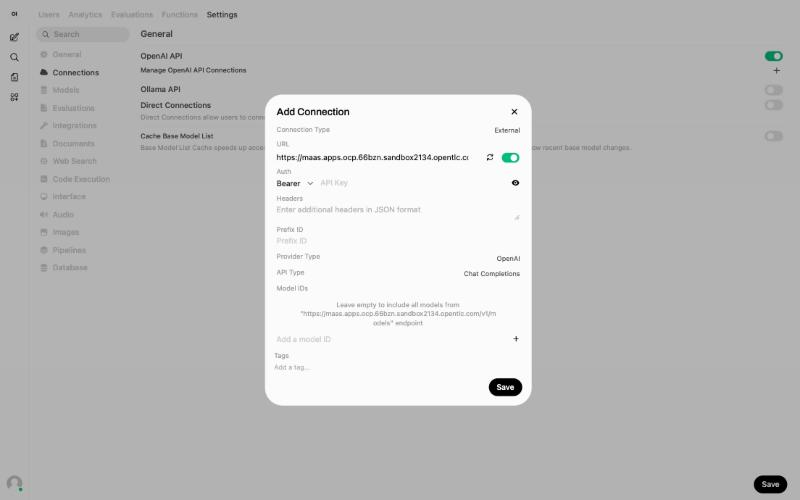
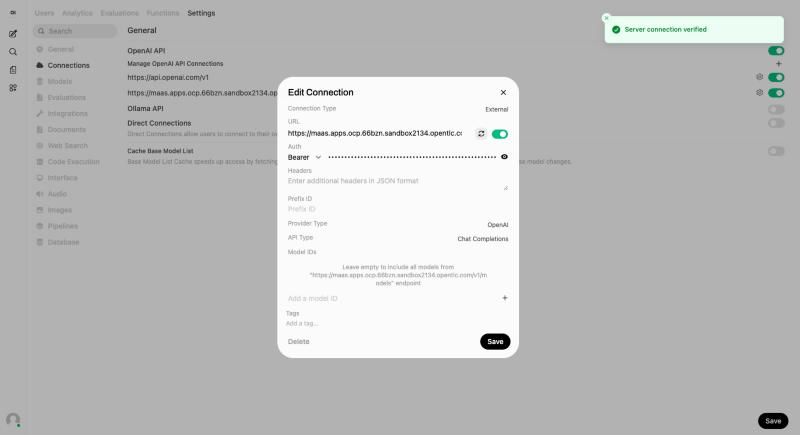
Apply user1 dry-run fixes and add Open WebUI dashboard tiles
- Part 5/6: MaaS row (use case LLM) appears after the subscription exists;
  MaaS governance location; key typeahead, expiration and copy button;
  Playground re-creation flow
- Part 7: Web Terminal start tips, NAMESPACE from oc whoami, Open WebUI tile
  in Applications > Enabled, connection "+" location, disable the default
  api.openai.com connection, "Network Problem" means a bad key, rename and
  New Chat details, no-login caution
- Appendix A: open-webui-tiles.sh for per-user dashboard tiles, cleanup order
- Retake Part 7 screenshots as user1

diff --git a/RHOAI-MODEL-DEPLOYMENT-WORKSHOP.md b/RHOAI-MODEL-DEPLOYMENT-WORKSHOP.md
@@ -424,12 +424,14 @@ The model pods are **not restarted**. Only the route moves from the inference ga
 
 ## Step 5.2: What Changed?
 
-Go back to **Gen AI studio > AI asset endpoints**. Your deployment now shows **two rows**:
+Go back to **Gen AI studio > AI asset endpoints**. For now you still see **one row**, `gemma-4-e4b-it` with use case `chat`. A MaaS model only becomes usable once a subscription includes it, so its row appears after you create your subscription in Step 6.1. You'll then see **two rows**, both named `gemma-4-e4b-it`:
 
-| Row | Badge | What It Is |
-|-----|-------|-----------|
-| `gemma-4-e4b-it` (use case `chat`) | — | The original AI asset entry. It still points at the **old** URL, which now returns **404** because the route moved |
-| `publishers/userN/models/gemma-4-e4b-it` | **Model as a Service** | The MaaS entry. This is the one to use from now on |
+| Row | Use Case | What It Is |
+|-----|----------|-----------|
+| `gemma-4-e4b-it` | `chat` | The original AI asset entry. It still points at the **old** URL, which now returns **404** because the route moved |
+| `gemma-4-e4b-it`, with `publishers/userN/models/gemma-4-e4b-it` underneath | `LLM` | The MaaS entry. This is the one to use from now on |
+
+![AI asset endpoints after Step 6.1](images/maas/23c-asset-endpoints-maas.jpg)
 
 Nothing was deleted. The dashboard simply lists the model once as a project AI asset and once as a MaaS model. The MaaS row has its own **Endpoints** dialog with the shared MaaS URL and a subscription picker.
 
@@ -456,7 +458,7 @@ In this workshop, your instructor has already created one shared **premium subsc
 
 ## Step 6.1: Create Your Basic Subscription
 
-1. Go to **Settings > MaaS governance**
+1. Go to **Settings > MaaS governance** (the last item under **Settings** in the left menu)
 2. Open the **Subscriptions** tab and click **"Create subscription"**
 
 ![MaaS governance](images/maas/20-maas-governance-empty.jpg)
@@ -493,7 +495,7 @@ Your subscription appears in the list with status **Ready**. The instructor's `p
 ## Step 6.2: Look at the MaaS Endpoint
 
 1. Go to **Gen AI studio > AI asset endpoints** (project `userN`)
-2. In the **Model as a Service** row, click **View** in the **Endpoints** column
+2. In the row with use case **LLM** (`publishers/userN/models/gemma-4-e4b-it` underneath the name), click **View** in the **Endpoints** column
 
 ![MaaS endpoint](images/maas/24-maas-endpoint.jpg)
 
@@ -517,15 +519,17 @@ Click **"Close"**. For Open WebUI, you'll create a proper key.
    |-------|---------------|
    | **Name** | `openwebui-userN` |
    | **Description** | `Key for Open WebUI` (optional) |
-   | **Subscription** | `basic subscription userN` |
-   | **Expiration** | a date after the workshop, for example tomorrow |
+   | **Subscription** | start typing `basic`, then pick **your own** `basic subscription userN` |
+   | **Expiration** | keep the default (1 day). It lasts past the end of the workshop |
 
    The **Models** list confirms which models the key can use, and their token limits.
 
 ![Create API key](images/maas/26-create-api-key.jpg)
 
 4. Click **"Create API key"**
-5. **Copy the key now.** It starts with `sk-oai-` and is **shown only once**. Paste it somewhere safe, such as a local text file; you'll need it in Part 7
+5. **Copy the key now.** It starts with `sk-oai-` and is **shown only once**. Click the **copy icon** next to the key, then paste it somewhere safe, such as a local text file; you'll need it in Part 7. Then click **"Close"**
+
+![API key created](images/maas/26b-api-key-created.jpg)
 
 > Lost the key? You can't display it again. Delete it on the **API keys** page and create a new one.
 
@@ -534,13 +538,18 @@ Click **"Close"**. For Open WebUI, you'll create a proper key.
 Reconnect the Playground through MaaS, the same way other applications will reach the model:
 
 1. Go to **Gen AI studio > AI asset endpoints** (project `userN`)
-2. In the **Model as a Service** row (`publishers/userN/models/gemma-4-e4b-it`), click **"Add to playground"**
+2. In the row with use case **LLM** (`publishers/userN/models/gemma-4-e4b-it` underneath the name), click **"Add to playground"**
 3. In **Configure playground**, both rows are named `gemma-4-e4b-it`. Keep the row with use case **LLM** (the MaaS one) checked and **uncheck** the row with use case **chat** (the old endpoint)
-4. Click **"Configure"**. The Playground restarts with the new model, which takes about a minute
-5. Open **Gen AI studio > Playground**, click **Settings**, and on the **Model** tab:
+
+![Configure playground with the MaaS model](images/maas/26c-configure-playground-maas.jpg)
+
+4. Click **"Configure"**. The Playground is re-created with the new model, which takes about a minute. When you see **"Playground created"**, click **"Go to playground"**
+5. Click **Settings**. On the **Model** tab, the fields are already filled in. Check them:
    - **Model:** the `maas-vllm-inference-1/publishers/userN/models/…` entry
    - **Subscription:** `basic subscription userN`
 6. Ask a question, for example `In one sentence, what is Models-as-a-Service?`
+
+> The re-created Playground starts empty: the document you uploaded for RAG in Step 4.5 is gone. Upload it again if you want to repeat the RAG test through MaaS.
 
 ![Playground through MaaS](images/maas/27-playground-maas.jpg)
 
@@ -584,7 +593,11 @@ You (browser) ──▶ Open WebUI ──(sk-oai- key)──▶ MaaS gateway ─
 
 ## Step 7.1: Open the Web Terminal
 
-Switch to the **OpenShift Console** (grid icon > **OpenShift Console**). Click the **`>_`** icon in the top-right masthead to open the Web Terminal. It comes with `oc`, `git` and `sed`, so you don't need any local tools.
+Switch to the **OpenShift Console** (grid icon > **OpenShift Console**). If it asks you to log in, use the same `userN` as the dashboard. If a **Welcome** dialog offers a tour, click **Skip tour**.
+
+Click the **`>_`** icon in the top-right masthead to open the Web Terminal. The first time, it shows **Initialize terminal**: click **Start** (if it asks for a project, pick `userN`). The terminal takes about 15 seconds to start. It comes with `oc`, `git` and `sed`, so you don't need any local tools.
+
+> **New to the terminal?** You only need to copy and paste. Hover over each command block in this guide and click its copy icon. Click inside the terminal and paste with **Ctrl+Shift+V** (Windows/Linux) or **Cmd+V** (Mac), or right-click > **Paste**. Then press **Enter**. Run one block at a time and wait for the prompt (`$`) to come back before the next one.
 
 ## Step 7.2: Clone the Workshop Repository
 
@@ -598,9 +611,17 @@ cd Red-Hat-AI-Workshop
 
 ## Step 7.3: Set Your Namespace
 
+Your project has the same name as your user, so the terminal can fill it in for you. The next commands use it to deploy into your project.
+
 ```bash
-export NAMESPACE=userN
+export NAMESPACE=$(oc whoami)
 ```
+
+```bash
+echo $NAMESPACE
+```
+
+It should print your own user, for example `user1`. If it doesn't, type it yourself, for example `export NAMESPACE=user1`.
 
 ## Step 7.4: Deploy Open WebUI
 
@@ -621,15 +642,25 @@ Wait for it to start:
 oc rollout status deployment/open-webui -n $NAMESPACE --timeout=180s
 ```
 
+It takes about a minute. You should see five lines ending in `created`, then `successfully rolled out`:
+
+![Deploy Open WebUI in the Web Terminal](images/maas/29-terminal-deploy-owui.jpg)
+
 ## Step 7.5: Open Open WebUI
 
-Get its URL:
+In the OpenShift AI dashboard, go to **Applications > Enabled**. Find the **Open WebUI** tile whose description starts with **your** `userN:` (everyone's tiles are listed) and click **Open application**:
+
+![Open WebUI tile in Applications > Enabled](images/maas/34-enabled-open-webui-tile.jpg)
+
+Or get the URL in the terminal:
 
 ```bash
 echo "https://$(oc get route open-webui -n $NAMESPACE -o jsonpath='{.spec.host}')"
 ```
 
 Open the URL in a new browser tab. Authentication is disabled for the workshop, so you go straight to the chat page. If a **What's New** dialog appears, click **"Okay, Let's Go!"**.
+
+> **Open only your own Open WebUI.** Without a login, anyone who opens your URL can chat with your API key, and everything you configure there is shared. Don't upload anything confidential.
 
 ## Step 7.6: Add the MaaS Connection with Your API Key
 
@@ -645,19 +676,21 @@ Now, in Open WebUI:
 
 1. Click the **profile icon** (bottom-left corner), then **"Admin Panel"**
 2. Click **"Settings"**, then **"Connections"**
-3. Next to **OpenAI API**, click **"+"** (Add Connection)
+3. Under **OpenAI API**, on the **"Manage OpenAI API Connections"** row, click **"+"** (Add Connection) at the far right
 4. Fill in:
 
    | Field | Value |
    |-------|-------|
    | **URL** | `https://maas.apps.<cluster-domain>/v1` |
-   | **Auth** | `Bearer`, then paste your **`sk-oai-` API key** from Step 6.3 |
+   | **Auth** | `Bearer`, then paste your **`sk-oai-` API key** from Step 6.3 into the field next to it |
    | **Model IDs** | leave empty (Open WebUI lists every model your key can use) |
 
 ![Add Connection](images/maas/30-owui-add-connection.jpg)
 
 5. Click the **Verify** icon (circular arrows) next to the URL. You should see **"Server connection verified"**
+   - **"OpenAI: Network Problem"** usually means the key is wrong or empty, not the network. Copy the key again (click the eye icon to check it starts with `sk-oai-`), paste it, and verify again
 6. Click **"Save"** in the dialog, then **"Save"** at the bottom right of the page
+7. Open WebUI comes with a connection to `https://api.openai.com/v1` that has no key. Turn its toggle **off** and click **"Save"** again, so only your MaaS connection is used
 
 That's all it takes to plug an application into MaaS: a base URL and an API key.
 
@@ -667,8 +700,8 @@ Open WebUI shows the model by its MaaS ID, `publishers/userN/models/gemma-4-e4b-
 
 1. In **Admin Panel > Settings**, click **"Models"**
 2. Click the **pencil icon** next to `publishers/userN/models/gemma-4-e4b-it`
-3. Change the **name** to `redhataigemma4`
-4. Click **"Save & Update"**
+3. Click the large model name at the top and replace it with `redhataigemma4`
+4. Scroll to the bottom of the page and click **"Save & Update"**. You should see **"Model updated successfully"**
 
 ![Rename the model](images/maas/32-owui-rename-model.jpg)
 
@@ -676,8 +709,8 @@ This changes only what Open WebUI displays. Requests still go to MaaS with the f
 
 ## Step 7.8: Chat
 
-1. Click **"New Chat"** (top left)
-2. Select **`redhataigemma4`** in the model dropdown
+1. Click **"New Chat"** (the pencil-and-paper icon at the top of the left sidebar)
+2. Check that **`redhataigemma4`** is selected at the top left. It's your only model, so it's usually already selected
 3. Try:
 
 ```
@@ -789,6 +822,7 @@ Turn **off** the OpenShift-MCP-Server on the **MCP** tab. With tools enabled, th
 ## MaaS returns 401 Unauthorized
 
 - The API key is missing, mistyped, expired or deleted. Create a new one in **Gen AI studio > API keys**
+- In Open WebUI, a 401 shows up as **"OpenAI: Network Problem"** when you click **Verify**. Paste the key again
 - The header must be `Authorization: Bearer sk-oai-…`
 
 ## MaaS returns 429, or Open WebUI shows an empty answer
@@ -831,7 +865,7 @@ Raise your hand! The instructors are here to help.
 
 ```bash
 # Set your namespace
-export NAMESPACE=userN
+export NAMESPACE=$(oc whoami)
 
 # Check your login and project
 oc whoami
@@ -964,6 +998,18 @@ oc get pods -n workshop-mcp
 
 If the ConfigMap `gen-ai-aa-mcp-servers` in `redhat-ods-applications` already has other entries, add the `OpenShift-MCP-Server` key instead of replacing the ConfigMap.
 
+## 6a. Open WebUI tiles in Applications > Enabled
+
+One **Open WebUI** tile per attendee, so they can open their Open WebUI from the dashboard in Step 7.5. Each tile links to `https://open-webui-userN.<apps domain>`. Its description starts with `userN:`, because every tile is visible to every user. Pass the number of attendees:
+
+```bash
+bash manifests/instructor/open-webui-tiles.sh 20
+```
+
+The dashboard shows the tiles within about 1 to 2 minutes. A tile's link works once that attendee has finished Step 7.4. Remove them after the workshop with `bash manifests/instructor/open-webui-tiles.sh 20 delete`.
+
+This follows Red Hat's [Adding an application to the dashboard](https://docs.redhat.com/en/documentation/red_hat_openshift_ai_self-managed/3.4/html/managing_openshift_ai/managing-applications-that-show-in-the-dashboard). It uses an `OdhApplication` with `spec.enable.validationConfigMap`, and the script creates that ConfigMap with `validation_result: "true"`, so attendees don't need to click **Enable** on the Explore page. The script sets `spec.endpoint` instead of `route`/`routeNamespace`: in RHOAI 3.5.3 the dashboard looks up `route` in its own namespace first. The default `spec.dashboardConfig.enablement: true` is required.
+
 ## 7. "premium subscription" placeholder
 
 One shared, intentionally empty subscription. It shows as **Failed** and can't be used for keys. That is expected; it only shows attendees that more tiers can exist:
@@ -993,7 +1039,17 @@ As a test user, walk through Parts 3 to 7 once:
 - Publish as MaaS, create a subscription and a key, and re-add the Playground through MaaS
 - Deploy Open WebUI, connect it with the key, chat and RAG
 
-Then delete the test user's project, subscription and API key.
+Then clean up the test user, in this order:
+
+1. **API keys:** signed in as the test user, delete them on **Gen AI studio > API keys** (kebab menu ⋮). Do this first: a key that is left behind becomes usable again if an attendee later creates a subscription with the same name
+2. **Subscription and its authorization policy:**
+
+   ```bash
+   oc delete maassubscription basic-subscription-user1 -n models-as-a-service
+   oc delete maasauthpolicy basic-subscription-user1-policy -n models-as-a-service --ignore-not-found
+   ```
+
+3. **Project** (model, Playground and Open WebUI): `oc delete project user1`
 
 ## Known limitations (RHOAI 3.5.3)
 

diff --git a/README.md b/README.md
@@ -21,7 +21,7 @@ See [RHOAI-MODEL-DEPLOYMENT-WORKSHOP.md](RHOAI-MODEL-DEPLOYMENT-WORKSHOP.md) for
 | `manifests/open-webui.yaml` | Open WebUI v0.9.0, deployed by participants in Part 7 |
 | `samples/acme-handbook.txt` | Sample document for the RAG exercises |
 | `show-urls.sh` | Prints the Open WebUI URL, MaaS base URL and model ID for your project |
-| `manifests/instructor/` | Cluster setup used by the instructor (inference gateway, Web Terminal, shared OpenShift MCP Server, premium subscription placeholder) |
+| `manifests/instructor/` | Cluster setup used by the instructor (inference gateway, Web Terminal, shared OpenShift MCP Server, premium subscription placeholder, Open WebUI dashboard tiles) |
 | `manifests/mcp-server.yaml` | Per-project MCP server (reference only, not used in the current flow) |
 | `manifests/llamastack.yaml` | LlamaStack deployment (reference only, not used in the current flow) |
 | `images/` | Screenshots for the guide (`images/maas/` for the current flow) |
